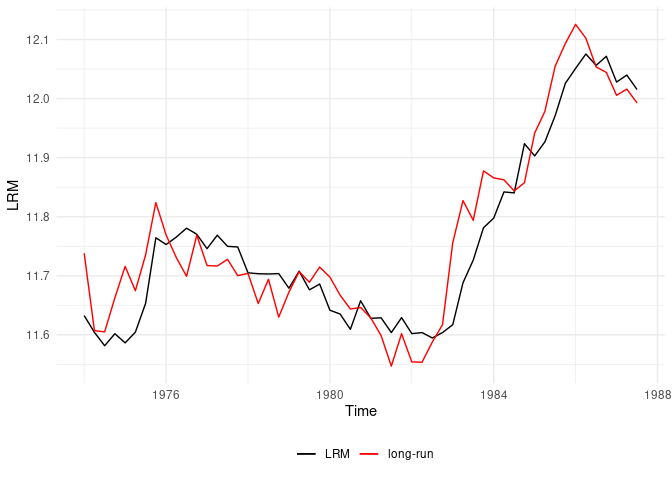
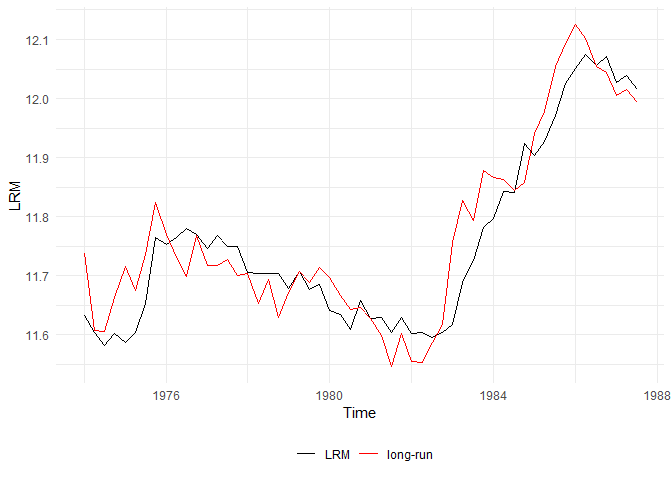
The last change in multipliers() and plot_lr() broke the functions. Corrected now.
Minor changes before CRAN submission

diff --git a/README.md b/README.md
@@ -294,23 +294,32 @@ plot_lr(ardl_3132, coint_eq = ce, show.legend = TRUE)
 
 <img src="man/figures/README-lr-plot-1.png" width="100%" />
 
-Forecasting and using an `ardl`, `uecm`, or `recm` model in other
-functions are easy as they can be converted in regular `lm` models.
+Forecasting using an `ardl` model is simple with the `predict()`
+function, which dispatches to `predict.ardl()`, a method created
+specifically for these models in this package.
 
 ``` r
-ardl_3132_lm <- to_lm(ardl_3132)
+#load zoo to create the zoo dataset
+library(zoo)
+#> 
+#> Attaching package: 'zoo'
+#> The following objects are masked from 'package:base':
+#> 
+#>     as.Date, as.Date.numeric
+# Create new observations
+new_values <- zoo(data.frame(
+        LRY=c(6.073861, 6.069912, 6.075906, 6.081180, 6.098292),
+        IBO=c(0.1182830, 0.1098737, 0.1098398, 0.1193263, 0.1127251),
+        IDE=c(0.07293421, 0.06980752, 0.07280321, 0.07112329, 0.07202889)
+    ), as.yearqtr(c("1987 4", "1988 1", "1988 2", "1988 3", "1988 4"), format = "%Y %q"))
+# Forecast using the new data
+predicted_values <- predict(ardl_3132, new_values)
 
-# Forecast using the in-sample data
-insample_data <- ardl_3132$model
-predicted_values <- predict(ardl_3132_lm, newdata = insample_data)
-
-# Convert to ts class for the plot
-predicted_values <- ts(predicted_values, start = c(1974,4), frequency=4)
-plot(denmark$LRM, lwd=2) #The input dependent variable
-lines(predicted_values, col="red", lwd=2) #The predicted values
+plot(denmark$LRM, xlim = c(start(denmark), end(predicted_values)))
+lines(predicted_values, col = "red")
 ```
 
-<img src="man/figures/README-Convert-to-lm-and-forecast-1.png" width="100%" />
+<img src="man/figures/README-Predict-ardl-1.png" width="100%" />
 
 ## Ease of use
 
@@ -328,12 +337,6 @@ transformation to behave like time-series)*
 
 ``` r
 library(dynlm)
-#> Loading required package: zoo
-#> 
-#> Attaching package: 'zoo'
-#> The following objects are masked from 'package:base':
-#> 
-#>     as.Date, as.Date.numeric
 
 dynlm_ardl_model <- dynlm(LRM ~ L(LRM, 1) + L(LRM, 2) + L(LRM, 3) + LRY + L(LRY, 1) +
                            IBO + L(IBO, 1) + L(IBO, 2) + L(IBO, 3) +
